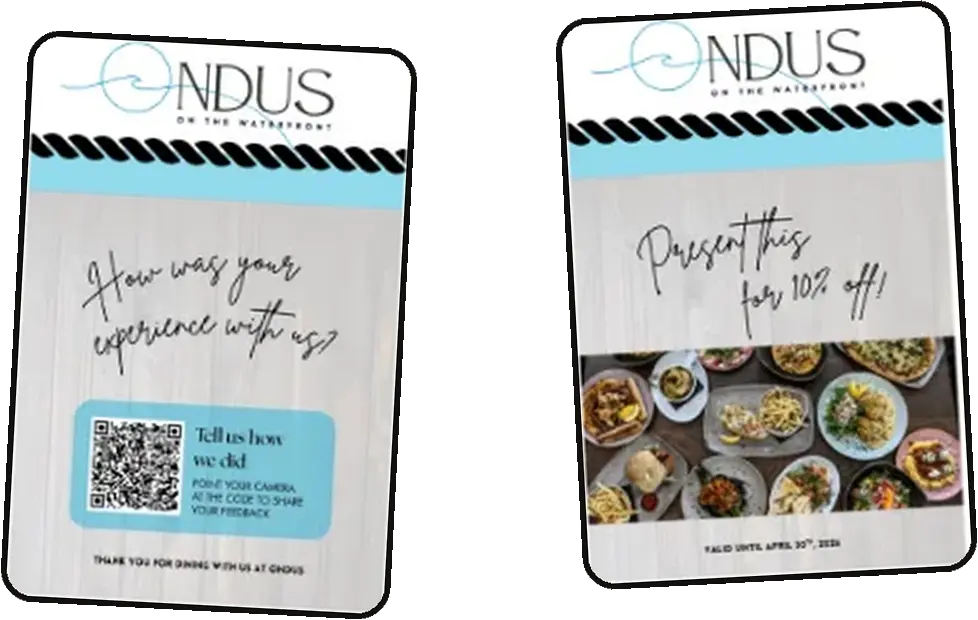
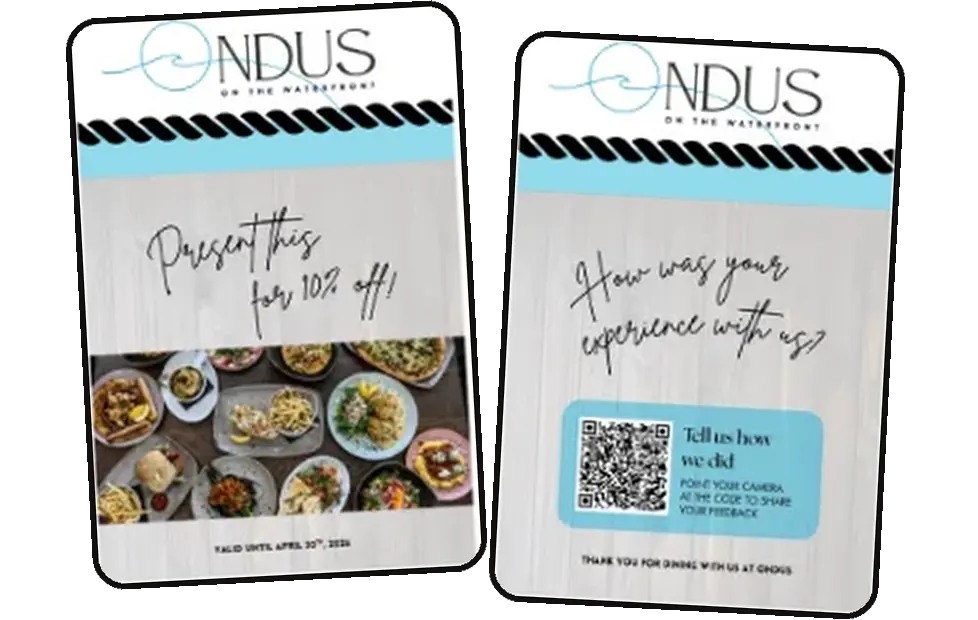
Swap Ondus guest cards so the QR feedback card sits second
The review card overlaps the left card, so moving the QR card to the
right keeps its code fully visible.

Claude-Session: https://claude.ai/code/session_01M47Rqf25vGPtvuGGY248cb

diff --git a/src/content.js b/src/content.js
@@ -82,7 +82,7 @@ export const projects = [
         visual: {
           kind: 'pair',
           variant: 'card',
-          doc: { src: ondusCards, alt: 'Ondus QR feedback card and 10% off discount card' },
+          doc: { src: ondusCards, alt: 'Ondus 10% off discount card and QR feedback card' },
           photo: { src: ondusReview, alt: 'Ondus "Leave us a review" card with a QR code linking to Yelp, a thank-you note, and lines for written feedback' },
         },
       },
